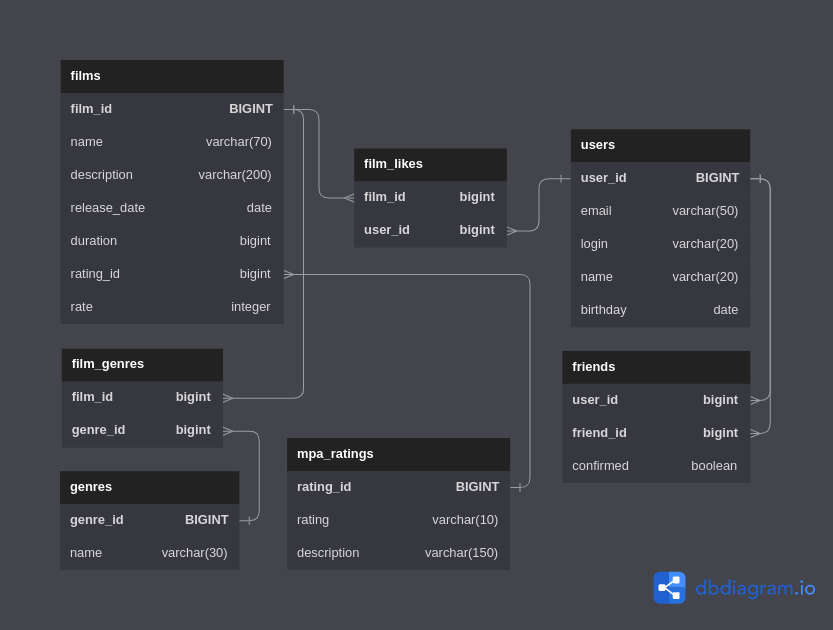
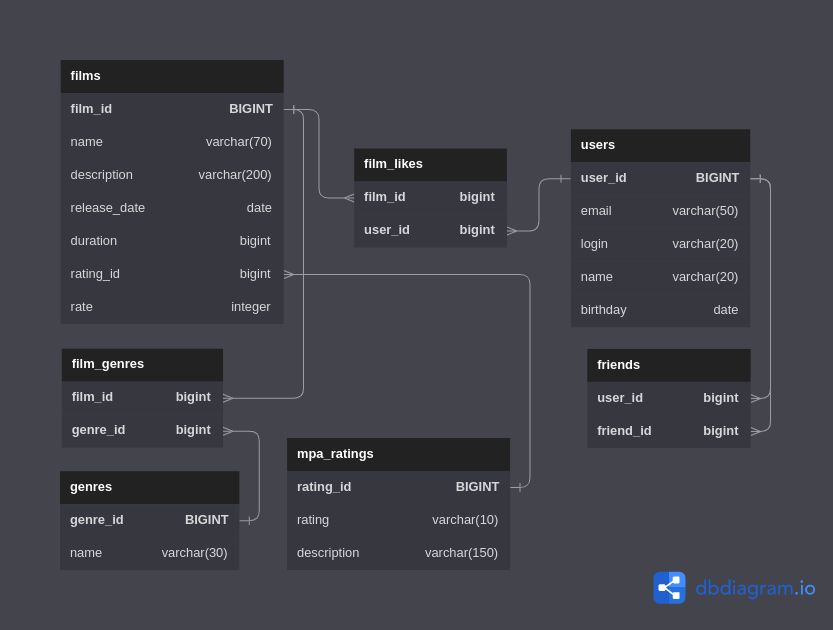
fix: Убрать из friends булево поле, изменить запросы, README

diff --git a/src/main/java/ru/yandex/practicum/filmorate/storage/impl/db/UserDbStorage.java b/src/main/java/ru/yandex/practicum/filmorate/storage/impl/db/UserDbStorage.java
@@ -70,7 +70,7 @@ public class UserDbStorage implements UserStorage {
     @Override
     public List<User> findFriends(Long userId) {
         String sql = "select * from users where user_id "
-        + "in (select friend_id from friends where user_id = ? and confirmed is true)";
+        + "in (select friend_id from friends where user_id = ?)";
         return new ArrayList<>( jdbcTemplate.query(sql, this::mapRowToUser, userId));
     }
 
@@ -82,11 +82,11 @@ public class UserDbStorage implements UserStorage {
                 + "   from ( "
                 + "       select friend_id as fr_id "
                 + "       from friends "
-                + "       where user_id = ? and confirmed is true) f "
+                + "       where user_id = ?) f "
                 + "   join ( "
                 + "       select friend_id as fr_id "
                 + "       from friends "
-                + "       where user_id = ? and confirmed is true ) t on t.fr_id = f.fr_id "
+                + "       where user_id = ?) t on t.fr_id = f.fr_id "
                 + ") mutual on u.user_id = mutual.fr_id";
         return new ArrayList<>( jdbcTemplate.query(sql, this::mapRowToUser, userId, otherId));
     }
@@ -103,18 +103,18 @@ public class UserDbStorage implements UserStorage {
     }
 
     private Set<Long> getFriendIds(long userId) {
-        String sql = "select friend_id from friends where user_id = ? and confirmed is true";
+        String sql = "select friend_id from friends where user_id = ?";
         return new HashSet<>( jdbcTemplate.query(sql,
                 (rs, rowNum) -> rs.getLong("friend_id"), userId));
     }
 
     private void updateFriends(User user) {
         String deleteSql = "delete from friends where user_id = ?";
-        String insertSql = "insert into friends (user_id, friend_id, confirmed) values(?, ?, ?)";
+        String insertSql = "insert into friends (user_id, friend_id) values(?, ?)";
         jdbcTemplate.update(deleteSql, user.getId());
         if (Objects.nonNull(user.getFriends())) {
             user.getFriends().forEach(friendId ->
-                    jdbcTemplate.update(insertSql, user.getId(),  friendId, "true"));
+                    jdbcTemplate.update(insertSql, user.getId(),  friendId));
         }
     }
 }

diff --git a/README.md b/README.md
@@ -35,10 +35,10 @@ JOIN (
 	FROM (
 		SELECT friend_id AS fr_id
 		FROM friends
-		WHERE user_id = userId AND confirmed IS TRUE) f
+		WHERE user_id = userId) f
 	JOIN (
 		SELECT friend_id AS fr_id
 		FROM friends
-		WHERE user_id = otherId AND confirmed IS TRUE ) t ON t.fr_id = f.fr_id 
+		WHERE user_id = otherId) t ON t.fr_id = f.fr_id 
 ) mutual ON u.user_id = mutual.fr_id
 ```
